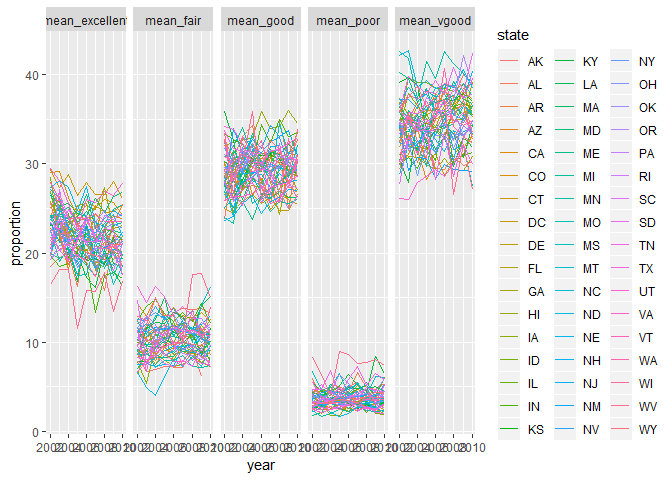
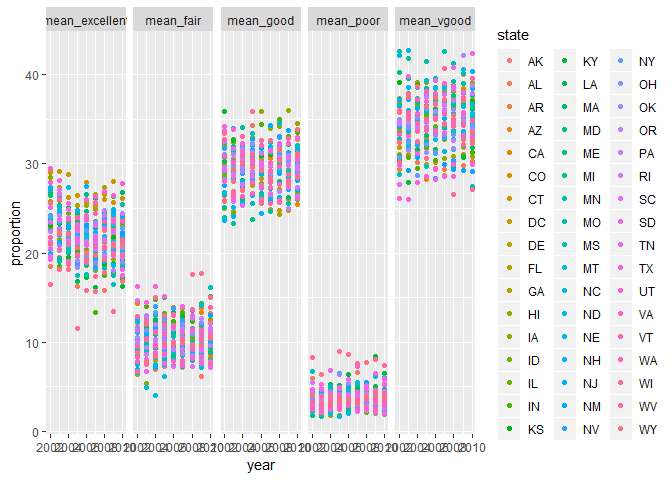
worked on questions about popular item and apples/ice cream

diff --git a/p8105_hw3_ph2538.md b/p8105_hw3_ph2538.md
@@ -180,12 +180,16 @@ five_panel_plot = clean_brfss %>%
   summarize(mean_excellent = mean(Excellent), mean_vgood = mean(`Very good`), mean_good = mean(Good), mean_fair = mean(Fair), mean_poor = mean(Poor)) %>%
 gather(key = response, value = proportion, mean_excellent:mean_poor) 
   
-ggplot(five_panel_plot, aes(x = year, y = proportion, color = state)) + geom_line() + facet_grid(. ~ response)
+ggplot(five_panel_plot, aes(x = year, y = proportion, color = state)) + geom_point() + facet_grid(. ~ response)
 ```
 
-    ## Warning: Removed 2 rows containing missing values (geom_path).
+    ## Warning: Removed 21 rows containing missing values (geom_point).
 
 ![](p8105_hw3_ph2538_files/figure-gfm/five_panel-1.png)<!-- -->
+
+``` r
+#NEED TO ORDER THESE 
+```
 
 ## Problem 2
 
@@ -305,9 +309,7 @@ ggplot(aisle_max, aes(x = aisle_id, y = n)) +
 ![](p8105_hw3_ph2538_files/figure-gfm/plot_aisle_number_items-1.png)<!-- -->
 
 ``` r
-  plot_fair = ggplot(five_panel_plot, aes(x = year, y = mean_fair, color = state)) + 
-  geom_line() +
-  theme(legend.position = "none")
+#reorder this plot with highest number of items first, to lowest 
 ```
 
 ``` r
@@ -315,12 +317,36 @@ ggplot(aisle_max, aes(x = aisle_id, y = n)) +
 
 popular_item = 
   instacart %>% 
-  filter(aisle == "baking ingredients" | aisle == "dog food care" | aisle == "packaged vegetable fruits") %>% 
-  group_by(aisle)
+  filter(aisle == "baking ingredients" | aisle == "dog food care" | aisle == "packaged vegetables fruits") %>% 
+  select(aisle, product_name) %>% 
+  group_by(aisle, product_name) %>% 
+  summarize(n = n()) %>% 
+  arrange(desc(n))
+  
+popular_item_sort = 
+  popular_item %>%
+  group_by(aisle) %>% 
+  top_n(5) %>% 
+  spread(key = aisle, value = product_name)
+```
+
+    ## Selecting by n
+
+``` r
+#min_rank(n)
+#separate 
 ```
 
 ``` r
 #Make a table showing the mean hour of the day at which Pink Lady Apples and Coffee Ice Cream are ordered on each day of the week; format this table for human readers (i.e. produce a 2 x 7 table).
+
+apple_icecream = 
+  instacart %>% 
+  filter(product_name == "Pink Lady Apples" | product_name == "Coffee Ice Cream") %>% 
+  group_by(product_name, order_dow) %>% 
+  summarize(mean_hour = mean(order_hour_of_day)) %>% 
+  spread(key = product_name, value = mean_hour) %>% 
+  mutate(order_dow = recode(order_dow, `0` = "Sunday", `1` = "Monday", `2` = "Tuesday", `3` = "Wednesday", `4` = "Thursday", `5` = "Friday", `6` = "Saturday"))
 ```
 
 ## Problem 3
